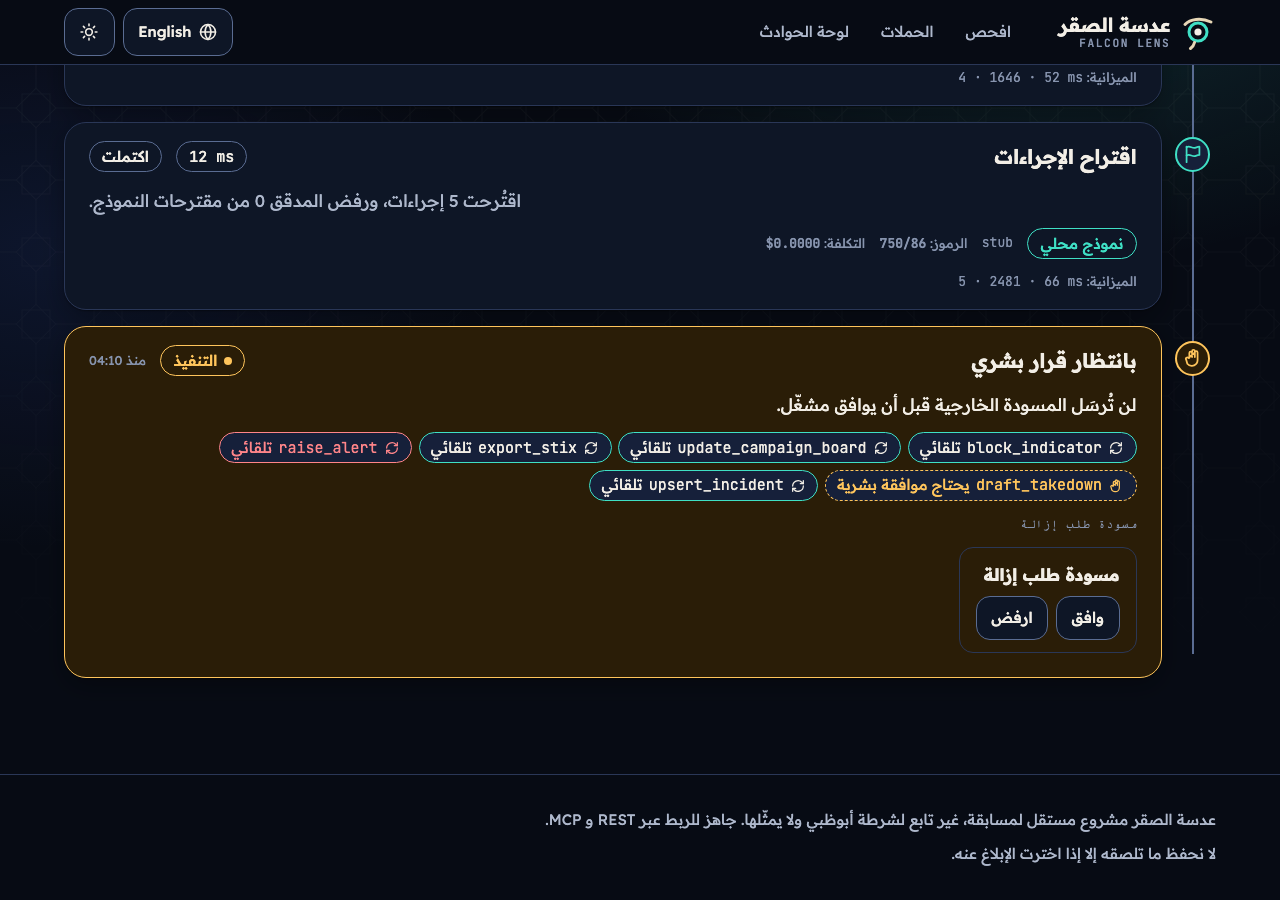
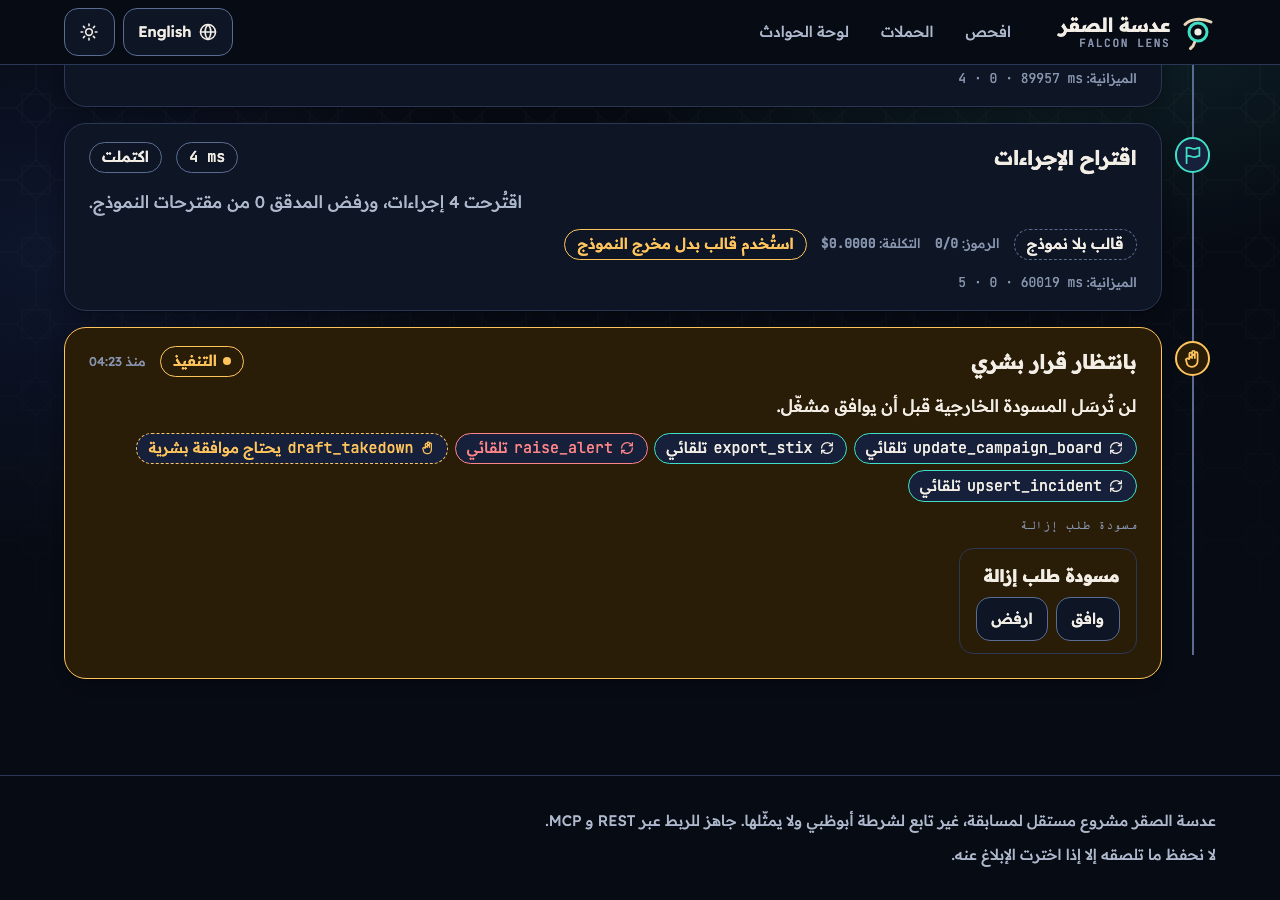
fix(sentinel): no json-mode for local inkling, LLM outage falls back to templates, deterministic takedown draft on propose fallback, budget elapsed fix

diff --git a/services/sentinel/src/falcon_sentinel/llm.py b/services/sentinel/src/falcon_sentinel/llm.py
@@ -9,6 +9,7 @@ get ONE repair retry; the model never sets a score and only ever sees structured
 from __future__ import annotations
 
 import json
+import os
 import re
 from collections.abc import Callable
 from typing import Any, Protocol
@@ -135,7 +136,13 @@ class OpenAICompatLLM:
         model: str = "inkling-2-mini-chat",
         timeout: float = 30.0,
         client: httpx.AsyncClient | None = None,
+        structured: bool | None = None,
     ) -> None:
+        # inkling* has no structured output (infra/ollama/README.md): prompt-level JSON only, unless FL_LOCAL_STRUCTURED=1.
+        env = os.environ.get("FL_LOCAL_STRUCTURED")
+        self.structured = (
+            structured if structured is not None else (env == "1" if env else not model.startswith("inkling"))
+        )
         self.url = base_url.rstrip("/") + "/v1/chat/completions"
         self.model = model
         self._client = client or httpx.AsyncClient(timeout=timeout)
@@ -144,18 +151,17 @@ class OpenAICompatLLM:
         self, *, role: str, system: str, user_json: dict[str, Any], schema: dict[str, Any]
     ) -> dict[str, Any]:
         sys_prompt = f"{system}\nReturn ONLY a JSON object matching this JSON Schema:\n{json.dumps(schema)}"
-        resp = await self._client.post(
-            self.url,
-            json={
-                "model": self.model,
-                "temperature": 0,
-                "response_format": {"type": "json_object"},
-                "messages": [
-                    {"role": "system", "content": sys_prompt},
-                    {"role": "user", "content": json.dumps(user_json, ensure_ascii=False)},
-                ],
-            },
-        )
+        body: dict[str, Any] = {
+            "model": self.model,
+            "temperature": 0,
+            "messages": [
+                {"role": "system", "content": sys_prompt},
+                {"role": "user", "content": json.dumps(user_json, ensure_ascii=False)},
+            ],
+        }
+        if self.structured:
+            body["response_format"] = {"type": "json_object"}
+        resp = await self._client.post(self.url, json=body)
         resp.raise_for_status()
         content = resp.json()["choices"][0]["message"]["content"]
         try:

diff --git a/services/sentinel/src/falcon_sentinel/graph.py b/services/sentinel/src/falcon_sentinel/graph.py
@@ -266,6 +266,13 @@ def build_graph(deps: Deps) -> StateGraph[TriageState, Any, TriageState, TriageS
                 ),
                 timeout=remaining,
             )
+        except (
+            httpx.HTTPError,
+            OSError,
+        ) as exc:  # model endpoint down or erroring: template fallback, not a node retry
+            if rec is not None:
+                rec.fallback = True
+            raise LLMOutputError(f"llm_unavailable: {type(exc).__name__}") from exc
         finally:
             budget["tokens"] += used
 
@@ -278,6 +285,7 @@ def build_graph(deps: Deps) -> StateGraph[TriageState, Any, TriageState, TriageS
             t0 = time.monotonic()
             b = _budget(state)
             iid = state["incident_id"]
+            base_s = float(b["elapsed_s"])
             rec = StepRec()
             tok = CUR_STEP.set(rec)
             run_id = CUR_RUN.get()
@@ -307,7 +315,7 @@ def build_graph(deps: Deps) -> StateGraph[TriageState, Any, TriageState, TriageS
                         "budget": {
                             "steps_used": int(b["steps"]),
                             "tokens_used": int(b["tokens"]),
-                            "elapsed_ms": int((b["elapsed_s"] + time.monotonic() - t0) * 1000),
+                            "elapsed_ms": int((base_s + time.monotonic() - t0) * 1000),
                         },
                         "error_code": err,
                     },
@@ -484,6 +492,8 @@ def build_graph(deps: Deps) -> StateGraph[TriageState, Any, TriageState, TriageS
             ("update_campaign_board", {"incident_id": iid}),
             ("export_stix", {"incident_id": iid}),
         ]
+        if "propose" in degraded:  # no model proposals: the template still holds a takedown draft for a human
+            det.append(("draft_takedown", {"incident_id": iid, "recipient_kind": "registrar"}))
         if inc["severity"] in ("high", "critical"):
             det.append(("raise_alert", {"incident_id": iid, "severity": inc["severity"]}))
         for tool, args in det:

diff --git a/services/sentinel/tests/test_trace.py b/services/sentinel/tests/test_trace.py
@@ -137,3 +137,48 @@ def test_trace_endpoint_needs_operator_key():
     from falcon_sentinel.main import app
 
     assert TestClient(app).get("/internal/incidents/inc_X/trace").status_code == 401
+
+
+async def test_unreachable_llm_falls_back_to_templates_and_reaches_interrupt():
+    import httpx
+
+    env = await make_env()
+    iid = env.campaign_id()
+
+    def down(u: dict[str, Any]) -> Exception:
+        return httpx.ConnectError("down")
+
+    llm = StubLLM(overrides={t: down for t in ("assess", "summarise", "propose")})
+    await env.runner(llm).run(iid)
+    doc = await trace_of(env, iid)
+    (run,) = doc["runs"]
+    assert run["status"] == "interrupted"  # template fallback still proposes a takedown draft that waits for a human
+    by = {s["node"]: s for s in run["steps"]}
+    assert all(by[n]["llm"]["fallback_template"] for n in ("assess", "summarise", "propose"))
+    assert (env.cache.get(iid) or {})["summary"]["generated_by"] == "template"
+
+
+async def test_local_inkling_gets_no_response_format():
+    import json as _json
+
+    import httpx
+
+    from falcon_sentinel.llm import OpenAICompatLLM
+
+    seen: list[dict[str, Any]] = []
+
+    def handler(req: httpx.Request) -> httpx.Response:
+        seen.append(_json.loads(req.content))
+        return httpx.Response(
+            200, json={"choices": [{"message": {"content": '```json\n{"a": 1}<|end_message|>\n```'}}]}
+        )
+
+    c = httpx.AsyncClient(transport=httpx.MockTransport(handler))
+    out = await OpenAICompatLLM("http://x", "inkling-2-mini-chat", client=c).complete_json(
+        role="sentinel", system="s", user_json={}, schema={}
+    )
+    assert out == {"a": 1} and "response_format" not in seen[0]
+    await OpenAICompatLLM("http://x", "other", client=c).complete_json(
+        role="sentinel", system="s", user_json={}, schema={}
+    )
+    assert seen[1]["response_format"] == {"type": "json_object"}
